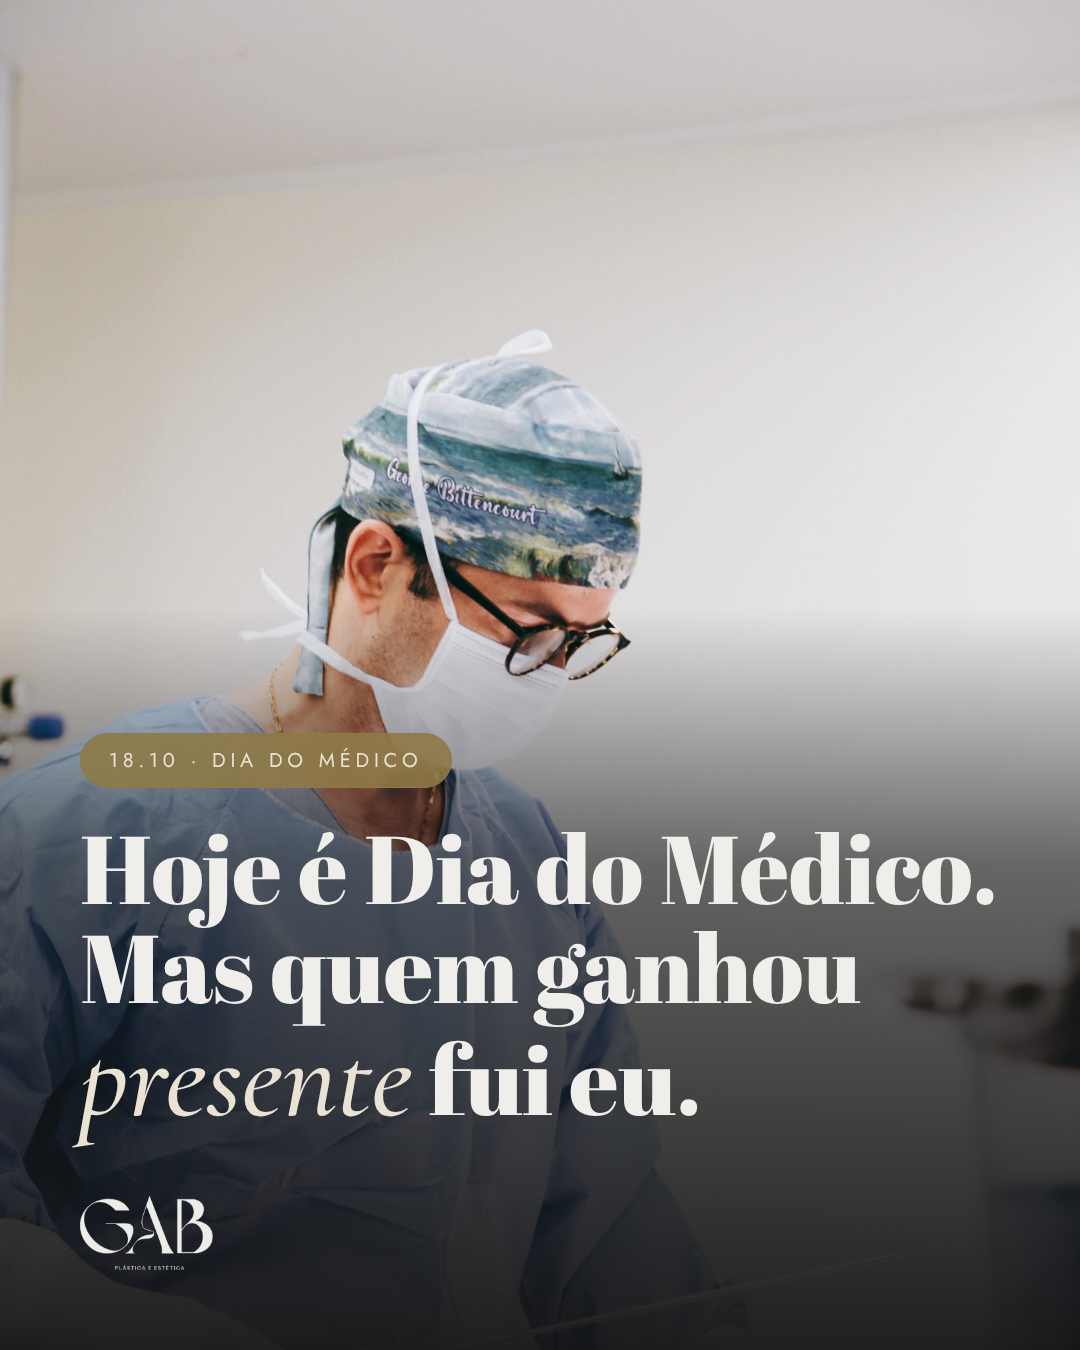
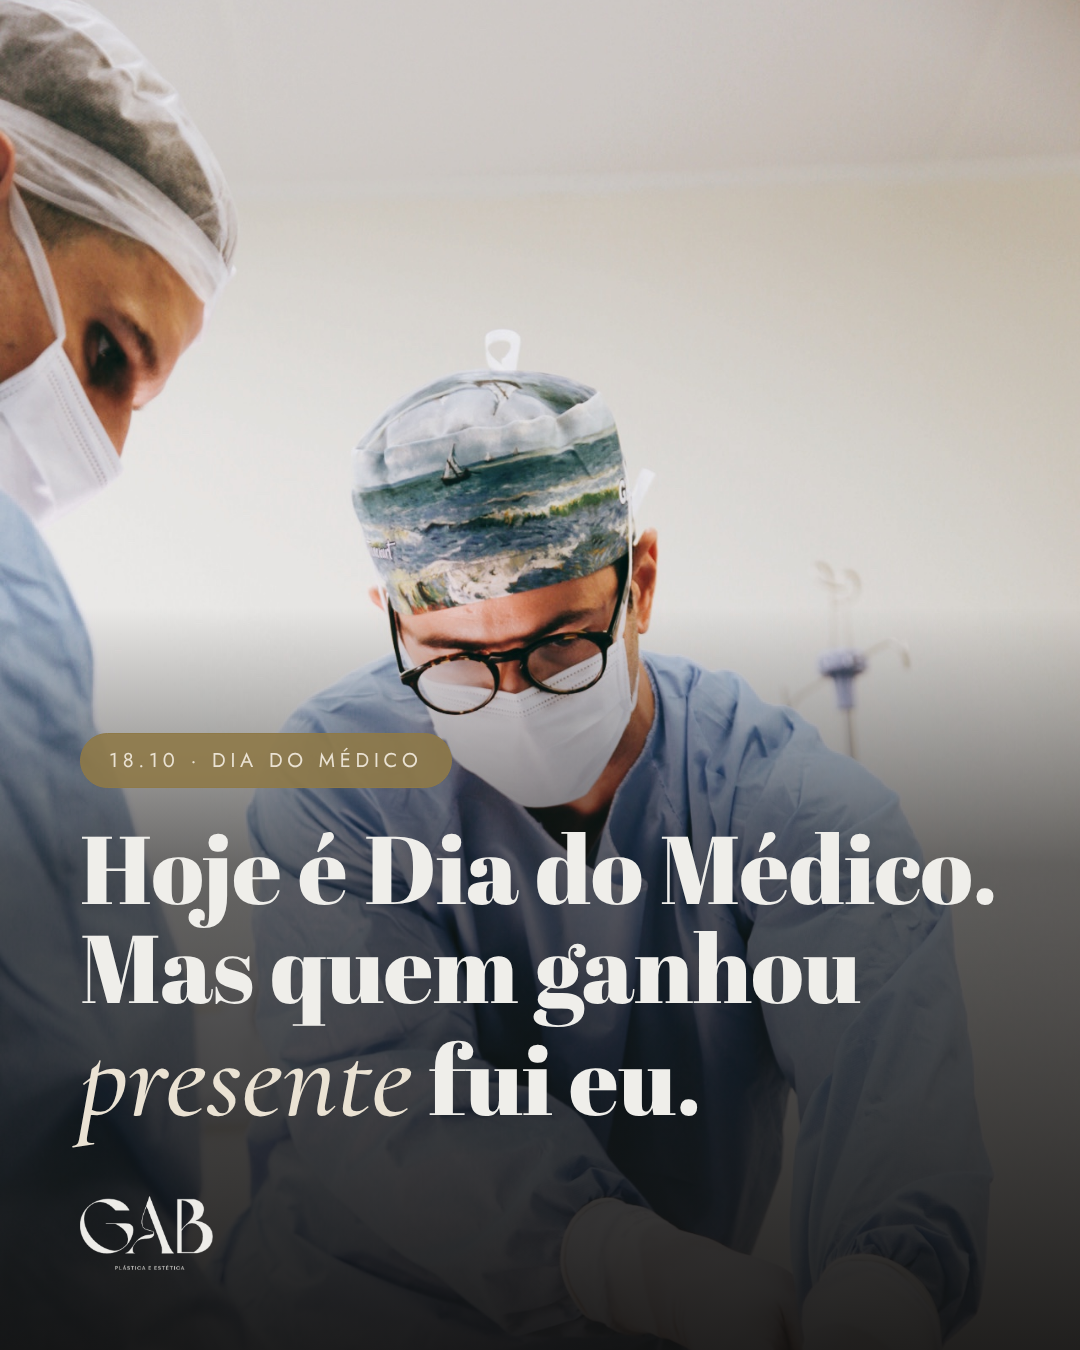
Change carousel cover photo
Claude-Session: https://claude.ai/code/session_01GVhh6PVXGt4EJQoc58yRio

diff --git a/carrossel-dia-do-medico/carrossel.html b/carrossel-dia-do-medico/carrossel.html
@@ -37,7 +37,7 @@
 
   /* 1 — capa */
   .s1{padding:0;color:var(--off)}
-  .s1 .photo{position:absolute;inset:0;background:url(assets/foto_cover.jpg) center 30%/cover}
+  .s1 .photo{position:absolute;inset:0;background:url(assets/foto_olhar.jpg) 55% 18%/cover}
   .s1 .shade{position:absolute;inset:0;background:linear-gradient(180deg,rgba(18,17,16,0) 45%,rgba(18,17,16,.6) 64%,rgba(18,17,16,.93) 100%)}
   .s1 .hd{position:relative;margin:72px 80px 0;color:var(--ink);border-color:var(--ink)}
   .s1 .content{position:absolute;left:80px;right:80px;bottom:80px}
@@ -93,14 +93,14 @@
 
 <!-- 02 · GRATIDÃO -->
 <section class="slide full" id="s2">
-  <div class="bg" style="background-image:url(assets/foto_olhar2.jpg);background-position:center 20%"></div>
-  <div class="sh" style="background:linear-gradient(180deg,rgba(18,17,16,.55) 0%,rgba(18,17,16,0) 22%,rgba(18,17,16,0) 40%,rgba(18,17,16,.8) 75%)"></div>
+  <div class="bg" style="background:var(--ink)"></div>
+  
   <div class="in">
-    <div style="margin-top:auto">
-      <div class="who"><i>A</i>Paciente</div>
-      <div class="bub">Parabéns, Dr, pelo seu dia 👏🏼🙏🏼 Ser operada por você foi <b>uma das melhores coisas que me aconteceram nesse ano.</b></div>
-      <div class="who" style="margin-top:34px"><i>C</i>Paciente</div>
-      <div class="bub">Você é um ser humano ímpar, de um coração gigante. <b>Sou muito grata por tudo que o senhor já fez por mim!</b></div>
+    <div style="margin:auto 0;text-align:center"><p class="fat" style="font-size:72px;margin-bottom:60px;color:var(--off)">Algumas mensagens<br>que <span class="it" style="color:var(--gold-soft);font-size:80px">eu guardo.</span></p>
+      <div class="who" style="justify-content:center;margin-left:0;color:var(--stone)"><i>A</i>Paciente</div>
+      <div class="bub" style="margin:0 auto;text-align:center;max-width:860px;border-radius:44px">Parabéns, Dr, pelo seu dia 👏🏼🙏🏼 Ser operada por você foi <b>uma das melhores coisas que me aconteceram nesse ano.</b></div>
+      <div class="who" style="justify-content:center;margin:34px 0 14px;color:var(--stone)"><i>C</i>Paciente</div>
+      <div class="bub" style="margin:0 auto;text-align:center;max-width:860px;border-radius:44px">Você é um ser humano ímpar, de um coração gigante. <b>Sou muito grata por tudo que o senhor já fez por mim!</b></div>
     </div>
   </div>
 </section>
